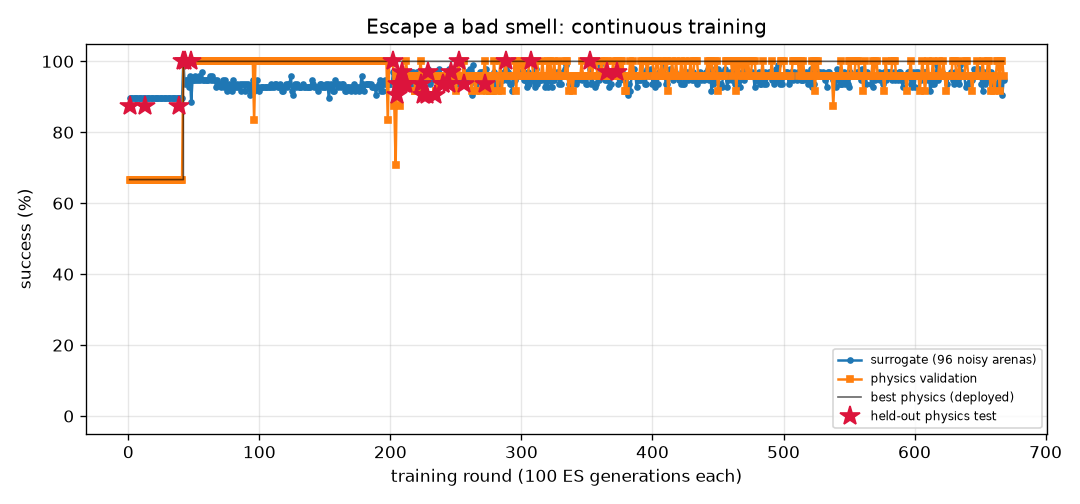
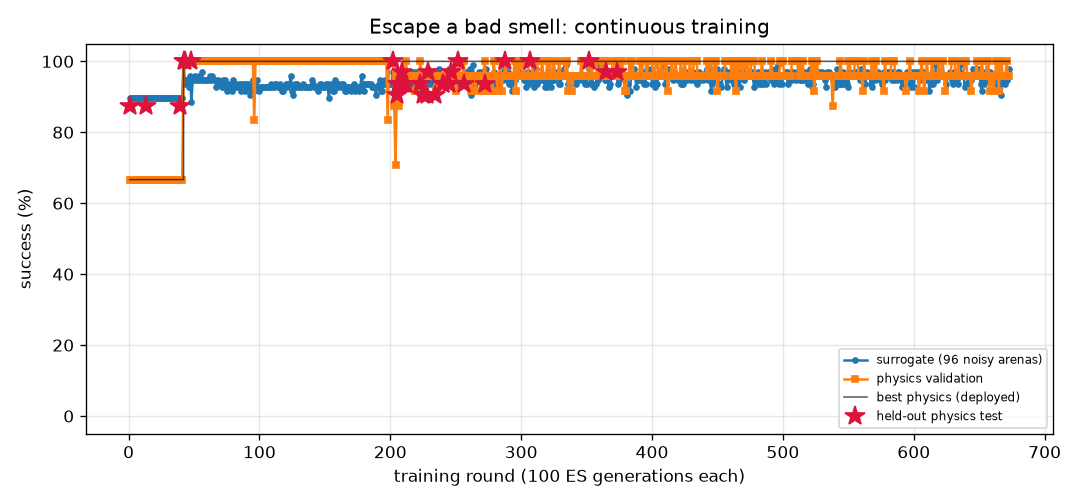
FlyLab: continuous training progress
- walk_forward: optimal, physics val 100% of 24, round 210
- turn: optimal, physics val 100% of 24, round 722
- goto: optimal, physics val 100% of 24, round 178
- odor_seek: optimal, physics val 100% of 24, round 157
- odor_avoid: optimal, physics val 100% of 24, round 673
- light_seek: optimal, physics val 100% of 24, round 373
- light_avoid: optimal, physics val 100% of 24, round 398

diff --git a/projects/09_flylab/training/odor_avoid/REPORT.md b/projects/09_flylab/training/odor_avoid/REPORT.md
@@ -1,14 +1,14 @@
 # Escape a bad smell (`odor_avoid`) — training report
 
-*Auto-generated by `train_brains.py`, last updated 2026-10-27T19:17:34.*
+*Auto-generated by `train_brains.py`, last updated 2026-10-27T20:17:44.*
 
 ![curve](curve.png)
 
 | | |
 |---|---|
-| rounds | 668 |
-| ES generations | 66800 |
-| physics runs | 13338 |
+| rounds | 673 |
+| ES generations | 67300 |
+| physics runs | 13458 |
 | status | **optimal** |
 | best brain | round 373: physics validation **100%** on 24 arenas, surrogate 97% |
 | held-out physics test | **97%** on 32 unseen arenas (95% CI 84%-99%) (errors: [62.0, 57.4, 62.6, 61.9, 59.0, 61.6, 56.5, 60.7, 31.7, 60.9, 63.1, 57.1, 61.1, 62.1, 61.5, 60.2, 62.2, 55.2, 62.1, 54.2, 61.3, 62.0, 58.0, 61.9, 59.8, 56.5, 56.3, 56.4, 56.3, 57.7, 61.9, 32.4]) |
@@ -17,11 +17,6 @@ Physics error per arena: mm gained away from source (> 6 without first approachi
 
 | round | level | gens | sigma | surrogate | physics val | val errors | test | note |
 |---:|---:|---:|---:|---:|---:|---|---:|---|
-| 629 | 3 | 62900 | 0.026 | 95% | 100% | [62.7, 60.1, 56.2, 59.8, 62.4, 62.6, 61.1, 63.2, 61.7, 61.7, 61.0, 62.3, 52.6, 56.1, 44.2, 63.0, 62.2, 62.9, 55.3, 60.4, 62.3, 63.3, 56.9, 63.7] |  | restart from best |
-| 630 | 3 | 63000 | 0.026 | 94% | 100% | [62.4, 61.4, 55.9, 60.0, 61.1, 61.9, 61.2, 48.2, 61.5, 60.0, 52.4, 61.8, 51.2, 54.3, 35.8, 62.3, 62.1, 62.2, 54.7, 59.1, 62.2, 54.1, 56.3, 62.3] |  |  |
-| 631 | 3 | 63100 | 0.028 | 97% | 100% | [61.8, 59.5, 55.6, 61.1, 61.2, 62.3, 60.2, 50.9, 62.1, 53.9, 54.2, 61.6, 51.4, 54.8, 31.7, 60.5, 61.7, 61.5, 53.3, 56.6, 61.9, 59.2, 60.2, 60.8] |  |  |
-| 632 | 3 | 63200 | 0.026 | 97% | 96% | [62.5, 59.5, 56.7, 61.1, 61.9, 61.9, 61.0, 42.9, 61.3, 41.2, 61.0, 61.0, 51.9, 55.4, 35.5, 61.6, 61.4, 59.7, 54.5, 56.9, 61.7, 52.2, 59.4, 58.2] |  |  |
-| 633 | 3 | 63300 | 0.026 | 95% | 96% | [64.0, 61.5, 56.7, 58.3, 62.8, 62.1, 62.5, 60.4, 61.0, 61.7, 62.0, 62.1, 54.5, 56.6, 41.6, 62.2, 62.6, 61.8, 55.4, 57.3, 61.8, 62.8, 58.5, 55.2] |  | restart from best |
 | 634 | 3 | 63400 | 0.026 | 94% | 100% | [62.8, 61.2, 55.9, 61.4, 62.5, 61.7, 61.5, 61.7, 61.0, 59.9, 61.8, 62.0, 55.2, 55.8, 51.2, 62.4, 62.0, 61.1, 55.2, 59.7, 62.1, 62.5, 59.0, 61.9] |  |  |
 | 635 | 3 | 63500 | 0.028 | 99% | 96% | [60.4, 58.6, 56.5, 57.1, 61.0, 61.5, 61.3, 60.5, 61.0, 61.3, 61.4, 61.5, 52.4, 54.0, 17.4, 59.4, 61.4, 60.8, 49.6, 59.2, 61.5, 61.6, 60.3, 61.5] |  |  |
 | 636 | 3 | 63600 | 0.025 | 97% | 96% | [61.5, 55.7, 56.5, 59.9, 61.6, 60.8, 61.6, 44.1, 61.4, 46.4, 53.6, 62.0, 51.4, 56.3, 41.5, 61.6, 62.1, 61.5, 54.3, 55.4, 61.5, 42.4, 59.8, 39.1] |  |  |
@@ -57,3 +52,8 @@ Physics error per arena: mm gained away from source (> 6 without first approachi
 | 666 | 3 | 66600 | 0.026 | 96% | 100% | [63.3, 56.0, 56.3, 56.3, 60.9, 60.6, 60.4, 44.9, 61.1, 53.2, 55.4, 62.4, 51.2, 55.8, 36.4, 62.0, 62.4, 62.0, 54.8, 58.9, 61.8, 61.4, 59.0, 62.6] |  |  |
 | 667 | 3 | 66700 | 0.026 | 91% | 100% | [62.9, 58.2, 52.3, 61.5, 60.6, 60.2, 61.5, 59.5, 60.9, 60.4, 50.4, 61.6, 52.5, 54.9, 20.7, 61.1, 61.1, 60.5, 52.6, 56.0, 61.2, 53.1, 59.1, 62.3] |  |  |
 | 668 | 3 | 66800 | 0.029 | 95% | 96% | [60.7, 56.6, 56.0, 57.6, 61.3, 62.3, 61.3, 58.2, 61.0, 61.4, 60.0, 61.5, 50.0, 56.4, 38.6, 61.5, 61.5, 62.3, 54.0, 56.5, 61.5, 61.0, 59.8, 60.8] |  |  |
+| 669 | 3 | 66900 | 0.027 | 96% | 96% | [58.6, 51.3, 54.8, 51.4, 57.9, 56.4, 54.2, 46.8, 54.6, 49.4, 50.5, 58.8, 48.8, 53.4, 36.5, 57.3, 58.9, 56.3, 48.2, 50.3, 58.9, 43.7, 51.4, 57.2] |  | restart from best |
+| 670 | 3 | 67000 | 0.026 | 94% | 96% | [62.7, 54.1, 58.3, 57.0, 61.8, 60.6, 60.6, 27.7, 59.2, 59.0, 61.6, 60.3, 53.4, 55.6, 42.6, 61.7, 60.9, 62.1, 54.0, 52.1, 60.2, 58.9, 57.0, 56.5] |  |  |
+| 671 | 3 | 67100 | 0.028 | 95% | 100% | [62.6, 60.8, 54.7, 60.9, 60.1, 61.1, 62.0, 58.4, 60.1, 48.8, 55.5, 59.8, 45.6, 54.3, 26.3, 59.3, 60.4, 57.4, 51.8, 56.9, 59.9, 62.0, 55.8, 62.6] |  |  |
+| 672 | 3 | 67200 | 0.027 | 96% | 96% | [61.5, 55.5, 56.1, 59.1, 61.5, 61.4, 60.7, 40.2, 61.1, 59.5, 60.7, 61.3, 51.8, 57.3, 41.6, 60.9, 61.3, 59.8, 54.4, 55.8, 60.6, 60.6, 60.8, 51.8] |  |  |
+| 673 | 3 | 67300 | 0.026 | 98% | 96% | [62.2, 57.7, 55.8, 57.6, 61.5, 62.1, 61.3, 55.7, 60.6, 56.1, 61.7, 62.2, 54.6, 55.6, 41.6, 61.1, 61.6, 61.7, 55.4, 58.9, 61.7, 60.5, 55.3, 58.7] |  | restart from best |

diff --git a/projects/09_flylab/training/turn/REPORT.md b/projects/09_flylab/training/turn/REPORT.md
@@ -1,14 +1,14 @@
 # Turn in place (`turn`) — training report
 
-*Auto-generated by `train_brains.py`, last updated 2026-10-27T19:17:22.*
+*Auto-generated by `train_brains.py`, last updated 2026-10-27T20:14:18.*
 
 ![curve](curve.png)
 
 | | |
 |---|---|
-| rounds | 716 |
-| ES generations | 71600 |
-| physics runs | 17430 |
+| rounds | 722 |
+| ES generations | 72200 |
+| physics runs | 17574 |
 | status | **optimal** |
 | best brain | round 80: physics validation **100%** on 24 arenas, surrogate 100% |
 | held-out physics test | **97%** on 32 unseen arenas (95% CI 84%-99%) (errors: [1.6, 3.3, 6.3, 3.7, 1.1, 0.4, 2.4, 2.9, 0.1, 2.6, 0.5, 2.7, 1.5, 3.1, 4.5, 0.2, 0.5, 1.1, 2.0, 4.4, 2.8, 3.2, 0.3, 2.2, 0.5, 3.0, 0.3, 5.4, 0.4, 1.0, 4.7, 10.7]) |
@@ -17,12 +17,6 @@ Physics error per arena: deg from target heading (< 20 = success).
 
 | round | level | gens | sigma | surrogate | physics val | val errors | test | note |
 |---:|---:|---:|---:|---:|---:|---|---:|---|
-| 677 | 3 | 67700 | 0.024 | 100% | 88% | [7.8, 6.5, 2.9, 1.8, 1.8, 4.4, 5.6, 0.7, 5.5, 1.1, 3.7, 1.6, 1.7, 0.7, 4.0, 0.6, 1.6, 1.9, 0.0, 0.0, 3.3, 3.0, 4.7, 3.8] |  |  |
-| 678 | 3 | 67800 | 0.024 | 99% | 83% | [2.1, 3.5, 7.8, 1.9, 2.2, 0.4, 7.3, 9.2, 8.0, 1.2, 6.5, 3.0, 0.3, 0.4, 6.5, 3.5, 2.3, 2.8, 7.6, 2.5, 3.9, 0.2, 7.4, 9.5] |  |  |
-| 679 | 3 | 67900 | 0.025 | 100% | 88% | [9.2, 1.0, 7.4, 0.3, 0.6, 2.8, 7.3, 8.2, 6.2, 1.4, 6.6, 2.0, 1.9, 0.7, 6.2, 10.4, 2.1, 3.3, 13.3, 2.6, 1.6, 0.9, 7.2, 7.6] |  |  |
-| 680 | 3 | 68000 | 0.024 | 100% | 79% | [1.6, 4.6, 0.2, 2.0, 1.6, 1.2, 7.8, 9.8, 7.1, 14.7, 6.3, 2.1, 6.5, 0.9, 7.0, 1.7, 2.2, 4.6, 2.6, 4.5, 4.5, 1.9, 7.6, 5.9] |  | restart from best |
-| 681 | 3 | 68100 | 0.024 | 99% | 67% | [6.3, 6.8, 7.0, 4.2, 0.0, 12.1, 4.4, 4.2, 4.3, 0.4, 3.3, 0.9, 0.7, 4.2, 4.7, 1.4, 1.1, 1.0, 0.9, 0.3, 4.6, 0.9, 4.2, 4.3] |  |  |
-| 682 | 3 | 68200 | 0.025 | 99% | 83% | [6.1, 9.0, 4.9, 0.6, 5.8, 1.9, 4.4, 2.1, 4.4, 1.2, 2.4, 2.2, 2.4, 3.5, 2.1, 1.5, 2.2, 0.5, 1.8, 1.4, 6.5, 1.3, 2.7, 2.2] |  |  |
 | 683 | 3 | 68300 | 0.025 | 100% | 92% | [8.4, 10.9, 1.9, 2.1, 2.3, 2.6, 4.4, 6.7, 3.8, 0.0, 1.7, 3.5, 0.6, 4.6, 2.6, 0.4, 2.6, 0.7, 0.6, 2.0, 6.0, 3.2, 1.7, 0.9] |  |  |
 | 684 | 3 | 68400 | 0.024 | 99% | 96% | [4.9, 8.2, 4.3, 4.5, 1.0, 2.5, 5.0, 3.9, 4.0, 1.2, 4.1, 1.9, 1.5, 2.9, 3.0, 0.1, 1.2, 0.8, 0.7, 2.4, 4.7, 0.4, 4.6, 3.0] |  | restart from best |
 | 685 | 3 | 68500 | 0.024 | 99% | 83% | [4.5, 1.6, 4.2, 0.3, 0.8, 2.7, 4.1, 6.1, 5.5, 1.5, 5.0, 1.5, 0.6, 2.1, 4.7, 1.6, 1.4, 1.9, 1.6, 3.4, 3.2, 2.1, 5.0, 0.2] |  |  |
@@ -57,3 +51,9 @@ Physics error per arena: deg from target heading (< 20 = success).
 | 714 | 3 | 71400 | 0.025 | 99% | 96% | [7.3, 2.4, 5.1, 3.7, 1.5, 0.7, 5.3, 5.8, 6.0, 11.7, 3.7, 0.0, 2.2, 3.9, 3.6, 10.6, 0.4, 1.3, 0.4, 0.9, 5.1, 1.4, 5.0, 5.8] |  |  |
 | 715 | 3 | 71500 | 0.025 | 99% | 88% | [4.1, 5.2, 9.9, 0.4, 1.9, 4.9, 7.3, 8.4, 9.9, 3.3, 5.6, 3.7, 0.8, 0.6, 4.3, 2.8, 3.5, 14.9, 2.9, 3.0, 3.2, 3.7, 8.9, 9.9] |  |  |
 | 716 | 3 | 71600 | 0.025 | 98% | 79% | [6.3, 4.3, 6.2, 3.4, 15.0, 3.9, 6.6, 2.5, 7.9, 1.1, 5.0, 2.2, 2.7, 1.8, 4.4, 1.7, 3.3, 11.9, 1.3, 2.3, 2.5, 2.3, 6.7, 8.4] |  | restart from best |
+| 717 | 3 | 71700 | 0.024 | 100% | 71% | [6.3, 8.5, 1.4, 1.5, 1.1, 4.3, 3.8, 2.8, 3.6, 0.8, 3.6, 0.7, 1.8, 0.9, 2.9, 0.7, 0.7, 0.1, 0.1, 1.4, 5.5, 1.7, 5.6, 1.5] |  |  |
+| 718 | 3 | 71800 | 0.024 | 100% | 79% | [2.8, 1.5, 2.5, 0.3, 1.2, 0.4, 5.3, 9.1, 5.8, 1.1, 6.4, 2.1, 1.6, 1.8, 4.5, 0.8, 1.6, 2.9, 1.5, 2.3, 2.9, 2.1, 6.9, 4.1] |  |  |
+| 719 | 3 | 71900 | 0.024 | 99% | 79% | [0.0, 6.4, 1.1, 0.6, 4.4, 1.4, 5.4, 3.8, 5.4, 0.5, 2.3, 0.5, 1.5, 3.5, 2.4, 1.8, 0.8, 0.4, 1.3, 0.6, 5.8, 0.1, 5.8, 3.1] |  |  |
+| 720 | 3 | 72000 | 0.025 | 98% | 75% | [4.2, 2.0, 5.6, 0.2, 4.1, 13.0, 6.8, 3.5, 6.5, 0.7, 5.9, 0.1, 1.5, 0.0, 5.2, 2.8, 0.4, 2.2, 2.4, 2.3, 107.9, 4.6, 6.7, 8.6] |  | restart from best |
+| 721 | 3 | 72100 | 0.024 | 100% | 96% | [9.2, 11.3, 10.9, 7.8, 4.8, 5.6, 0.7, 8.2, 0.3, 3.1, 0.1, 5.6, 4.0, 3.9, 0.2, 1.8, 5.9, 1.3, 3.5, 3.8, 7.8, 0.7, 0.2, 9.1] |  |  |
+| 722 | 3 | 72200 | 0.024 | 99% | 79% | [4.0, 1.6, 6.3, 3.8, 1.8, 0.8, 7.1, 6.9, 8.3, 1.4, 5.1, 1.3, 0.4, 0.4, 4.6, 13.2, 1.0, 2.7, 3.3, 3.6, 5.2, 1.1, 5.8, 5.5] |  |  |

diff --git a/projects/09_flylab/training/TRAINING.md b/projects/09_flylab/training/TRAINING.md
@@ -1,15 +1,15 @@
 # FlyLab brains — continuous training log
 
-*Auto-generated by `train_brains.py`, last updated 2026-10-27T19:17:34.*
+*Auto-generated by `train_brains.py`, last updated 2026-10-27T20:17:44.*
 
 Every skill has its own brain and its own training process: surrogate ES rounds, physics validation in MuJoCo, keep-the-best selection, and a held-out physics test that is never used for selection. See each skill's report for its full round-by-round history. Mastery is progressive: passing a level (100% physics validation, >=95% surrogate) doubles the validation and test arena sets; a brain is **optimal** once it holds up at level 3 (>=95% of 24 validation arenas) AND scores >=90% on the 32 held-out test arenas. Test columns show 95% Wilson confidence intervals.
 
 | skill | rounds | ES generations | physics runs | surrogate | physics val | **physics test** | status |
 |---|---:|---:|---:|---:|---:|---:|---|
 | [Walk forward](walk_forward/REPORT.md) | 210 | 21000 | 5054 | 100% | 100% of 24 | 100% of 32 (CI 89-100%) | **optimal** |
-| [Turn in place](turn/REPORT.md) | 716 | 71600 | 17430 | 100% | 100% of 24 | 97% of 32 (CI 84-99%) | **optimal** |
+| [Turn in place](turn/REPORT.md) | 722 | 72200 | 17574 | 100% | 100% of 24 | 97% of 32 (CI 84-99%) | **optimal** |
 | [Go to a location](goto/REPORT.md) | 178 | 17800 | 4222 | 100% | 100% of 24 | 100% of 32 (CI 89-100%) | **optimal** |
 | [Find food by smell](odor_seek/REPORT.md) | 157 | 15700 | 3198 | 100% | 100% of 24 | 100% of 32 (CI 89-100%) | **optimal** |
-| [Escape a bad smell](odor_avoid/REPORT.md) | 668 | 66800 | 13338 | 97% | 100% of 24 | 97% of 32 (CI 84-99%) | **optimal** |
+| [Escape a bad smell](odor_avoid/REPORT.md) | 673 | 67300 | 13458 | 97% | 100% of 24 | 97% of 32 (CI 84-99%) | **optimal** |
 | [Walk toward light](light_seek/REPORT.md) | 373 | 37300 | 5800 | 100% | 100% of 24 | 100% of 32 (CI 89-100%) | **optimal** |
 | [Hide from light](light_avoid/REPORT.md) | 398 | 39800 | 9824 | 100% | 100% of 24 | 100% of 32 (CI 89-100%) | **optimal** |
